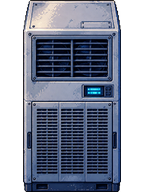
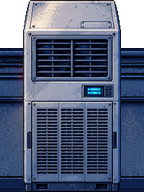
二十樓：空調那幾格也畫北牆，空調疊在牆前面（作者：空調跟牆之間有縫）

Changed region(s): [[0.8056, 0.25, 1.0, 1.0], [0.0, 0.25, 0.1944, 1.0]]

diff --git a/art/objects_gen.py b/art/objects_gen.py
@@ -230,7 +230,7 @@ LINES_OFFICE, COLS_OFFICE = LINES, COLS
 LINES_BY = {
     'office': LINES_OFFICE,
     'server': {
-        'north': dict(objs=['北牆西', '北牆中', '北牆東'], center=16, ref='北牆中',
+        'north': dict(objs=['北牆西', '北牆中', '北牆東'], under=['空調西', '空調東'], center=16, ref='北牆中',   # 空調那幾格也畫牆，空調疊在牆前面（10-09 作者：空調跟牆之間有縫）
                       desc='a grey concrete server room wall with a metal cable tray running along the top and a row of small red warning lights, a dark skirting at the bottom; plain wall, nothing in the middle'),
         'south': dict(objs=['南牆西', '鐵門', '南牆東'], center=5.5, ref='鐵門',
                       desc='a low grey concrete wall (seen as a short wall near the camera); near the middle a heavy closed grey steel security door set into the same wall, a card reader with a red light beside it'),
@@ -347,6 +347,9 @@ def lines_cut(a):
         strips[k] = st
     for k, v in LINES_BY[a].items():
         st = strips[k]
+        for n in v.get('under', []):   # 站在牆前面的東西：牆那一段當底，物件圖疊上去（物件圖由 cut() 先切好）
+            fx, fy, fw, fh = obs[n]['frame']; f = os.path.join(od, f'{n}.png')
+            base = bottom_pad(st.crop((fx * PX, 0, (fx + fw) * PX, st.height)), fh * PX); base.alpha_composite(Image.open(f).convert('RGBA')); base.save(f)
         for n in v['objs']:
             fx, fy, fw, fh = obs[n]['frame']
             bottom_pad(st.crop((fx * PX, 0, (fx + fw) * PX, st.height)), fh * PX).save(os.path.join(od, f'{n}.png'))
